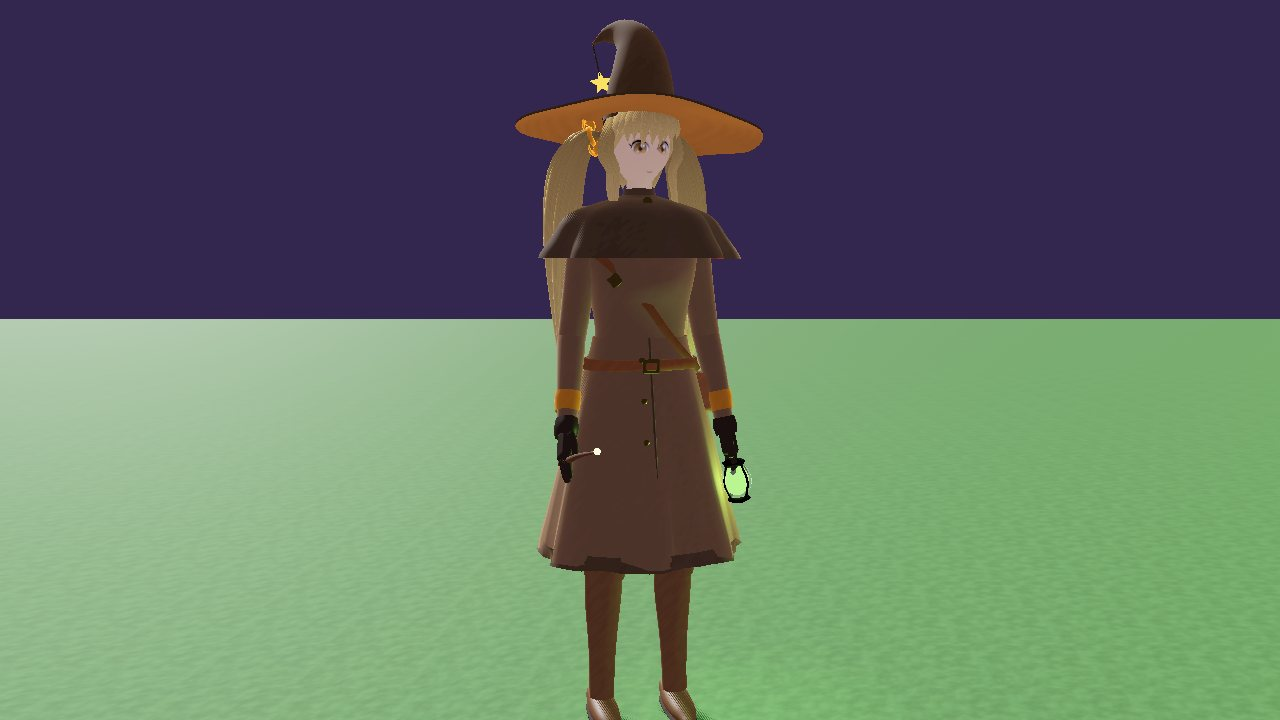
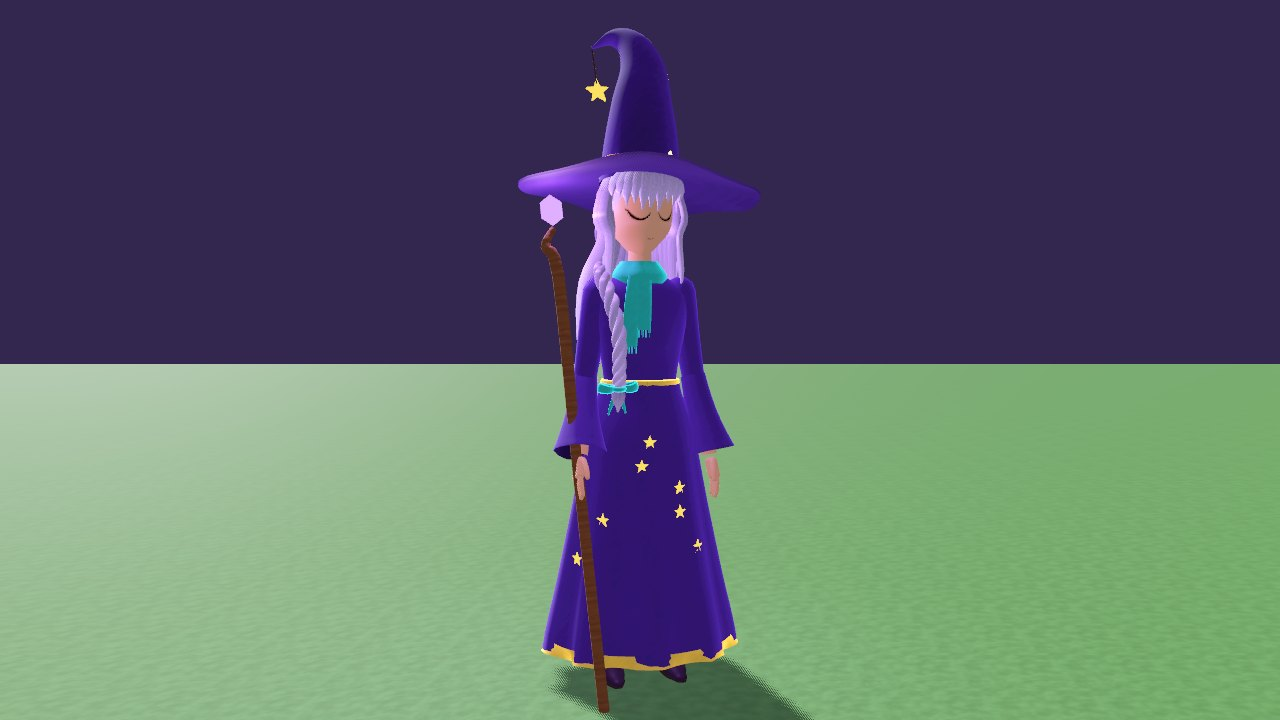
Asterion volta a ser a bruxinha roxa, agora com o visual novo
- Aparência da primeira versão: cabelo lavanda com trança sobre o ombro e
  laço turquesa, olhos âmbar, manto roxo com estrelas douradas, cachecol
  turquesa de tricô, chapéu roxo alto de ponta torta e cajado de ametista
  (os feitiços saem do cristal)
- Proporção estilizada: cabeça 1,36× (≈4,8 cabeças), olhos maiores, rosto
  com bochechas redondas e queixo pequeno (sem o "V" anguloso)
- Antialiasing: MSAA 2×/4× nas qualidades média/alta, FXAA na baixa e
  reescala FSR quando a resolução 3D é reduzida
- Textos atualizados (bio, prólogo, diálogos e docs: cajado em vez de varinha)

Claude-Session: https://claude.ai/code/session_01ByJMHuCW7eciP4fe7PnpwZ

Changed region(s): [[0.0, 0.0306, 1.0, 1.0]]

diff --git a/docs/05-narrativa.md b/docs/05-narrativa.md
@@ -13,7 +13,7 @@ espalhadas pelo vale e um selo no Portal das Ruínas.
 Dezessete invernos atrás, numa chuva de estrelas, o Círculo de Pedras brilhou e Ondina Vael encontrou
 no meio dele um cesto de vime com uma menina rindo para o céu. Ondina a criou na Cabana da Clareira e
 deu-lhe o nome de uma estrela. Asterion não sabe (até ler a carta sob o travesseiro) que carrega um
-pouco do Éter dos Primeiros — por isso as plantas lhe respondem e a magia sai da varinha tão fácil.
+pouco do Éter dos Primeiros — por isso as plantas lhe respondem e a magia sai do cajado tão fácil.
 
 ### O que aconteceu na noite do eclipse
 O Círculo Sombra, liderado por **Kael Morvane**, cravou **Agulhas de Silêncio** no bosque: estacas
@@ -28,8 +28,8 @@ Cada atalho aceito (Pó Cinzento, por exemplo) aproxima o vale do controle total
 
 ## 2. Estrutura em atos
 
-**Prólogo (jogável):** Asterion acorda na cabana. Já sabe seis feitiços gravados na varinha de
-salgueiro (Chama, Cristal de Gelo, Levitação, Transfiguração, Lume Estelar e Metamorfose) e começa
+**Prólogo (jogável):** Asterion acorda na cabana. Já sabe seis feitiços gravados no cajado de
+ametista (Chama, Cristal de Gelo, Levitação, Transfiguração, Lume Estelar e Metamorfose) e começa
 a explorar transformando o mundo ao redor — cada transformação nova é registrada no grimório.
 
 **Ato I — Despertar (jogável):** ler a Folha I, curar o jardim, visitar Vovó Sálvia, decidir como
@@ -88,7 +88,7 @@ Diversidade: idades de criança a anciã, tons de pele variados, corpos diversos
 | Marcas Estelares | Investigação | 3 marcas à noite com luz estelar → Visão Noturna + Pó de Estrela |
 | Encomenda do Bento | Secundária | 2 Tônicos → EP + sementes |
 | Pão que Não Cresce | Secundária | Entrar na padaria, lançar Crescimento Rápido na massa → pães de mel |
-| Varinha de Salgueiro | Tutorial · exploração | Descobrir 5 transformações diferentes (pedra→sapo, caixa→bule, abóbora→carruagem…) |
+| Aprendiz de Transfiguração | Tutorial · exploração | Descobrir 5 transformações diferentes (pedra→sapo, caixa→bule, abóbora→carruagem…) |
 
 ### Exemplos de consequências coerentes
 - Usar o Pó Cinzento: o Guardião passa a repetir "TUDO ESTÁ EM ORDEM", Sálvia fica em silêncio, Druidas desconfiam.

diff --git a/docs/06-arte.md b/docs/06-arte.md
@@ -41,12 +41,14 @@ roupa (manto, vestido, casaco, túnica, casaco-vestido), cores, chapéu, altura,
 acessórios (cachecol, cajado, varinha, lanterna, estrelas, sardas, xale, capinha, bengala, avental, bolsa,
 cinto, alça, luvas, botas altas, óculos, livro).
 
-**Asterion (estilo anime, `"style": "anime"`):** pele clara `#f2cdb0`, cabelo loiro-mel `#d9b46e`
-em **duas marias-chiquinhas longas** que balançam com o passo, olhos âmbar grandes com brilho duplo
-(estilo anime, cílios e sobrancelhas suaves), **chapéu de bruxa de aba larga** marrom `#4a3626` com faixa
-laranja e berloque pendurado, **casaco-vestido** marrom `#6e5340` com forro vinho, **capinha** sobre os
-ombros, cinto, alça cruzada, bolsa, luvas, **botas altas**, lanterna na cintura com luz quente e
-**varinha de salgueiro** com ponta luminosa (de onde saem os feitiços). Meia-calça escura e botas de couro marrom.
+**Asterion (estilo anime, `"style": "anime"`)** — a bruxinha roxa da primeira versão, agora com o
+visual novo: pele morena-clara `#e3a982`, cabelo **lavanda** `#cbb8f2` com franja e uma **trança** que
+passa por cima do ombro direito e cai na frente do peito, presa por **laço turquesa**; olhos **âmbar**
+grandes; **manto roxo** `#4b2a8a` com estrelas douradas que brilham, faixa e cinto; **cachecol turquesa**;
+**chapéu de bruxa roxo** `#3a2068`, alto e de ponta torta, com faixa e estrela douradas e estrelinha
+pendurada; **cajado com ametista** luminosa (de onde saem os feitiços).
+
+Estilização: cabeça ~1,36× a real (≈4,8 cabeças de altura) — expressiva como nos RPGs de anime atuais.
 
 Animação procedural: respiração, piscar, passos, balanço do manto, braços, mola na ponta do chapéu,
 nas marias-chiquinhas, no berloque e na lanterna, aceno, fala (aceno de cabeça), lançamento (braço erguido + flash do cristal), modo fantasma (Véu), e a Metamorfose troca o modelo por um gato (`CatModel`).

diff --git a/docs/rule-engine.md b/docs/rule-engine.md
@@ -57,7 +57,7 @@ protótipo. Qualquer uma pode ser revertida — os impactos estão listados.
 - **R-B6** Lua cheia: Magia Astral +20%; lua nova: Ilusão +20% (+10% com Amuleto da Lua). Sala Ritual: +10% por nível.
 - **R-B7** Feitiços com `unlock_method = experimentation` se revelam ao descobrir **8 receitas**.
 - **R-B8** **Feitiços iniciais** (`"starter": true`): Chama, Cristal de Gelo, Levitação, Transfiguração, Lume Estelar e Metamorfose começam com **30% de compreensão** e já nos 6 atalhos (`starter_slot`). Aprender um feitiço com os atalhos cheios substitui o último.
-- **R-B9** Lançamento "apontar e tocar": o feitiço sai como projétil da ponta da varinha e mira no alvo mágico mais próximo num cone de **±55° e até 16 m** à frente da câmera (ou no chão a 8 m). O efeito é aplicado **no ponto de impacto**.
+- **R-B9** Lançamento "apontar e tocar": o feitiço sai como projétil do cristal do cajado (ou da ponta da varinha) e mira no alvo mágico mais próximo num cone de **±55° e até 16 m** à frente da câmera (ou no chão a 8 m). O efeito é aplicado **no ponto de impacto**.
 - **R-B10** Transformações (`MagicProp`) voltam ao normal no dia seguinte; cada combinação nova objeto × feitiço grava a flag `transf.<objeto>.<efeito>` (condição `flag_count`).
 
 ### Grimório (Sistema C)

diff --git a/README.md b/README.md
@@ -40,7 +40,7 @@ Não há espadas: você progride **estudando, experimentando, cultivando e escol
   casa de bonecas — cama (com uma carta sob o travesseiro), atril, caldeirão, baú, lareira, estantes;
   também a casa de chá de Sálvia e a padaria da Dorinha.
 - **Feitiços na hora, desde o início**: 6 botões de feitiço em arco; tocou, a magia sai da ponta da
-  varinha e voa até o alvo mais próximo à frente (mira assistida + anel de mira). Chama, Cristal de Gelo,
+  cajado e voa até o alvo mais próximo à frente (mira assistida + anel de mira). Chama, Cristal de Gelo,
   Levitação, Transfiguração, Lume Estelar e Metamorfose (vira gato!).
 - **Transformações**: pedras viram sapos, caixas viram bules, abóboras viram carruagens, tocos viram
   casinhas de cogumelo — cada descoberta nova conta para a missão "Aprendiz de Transfiguração".
